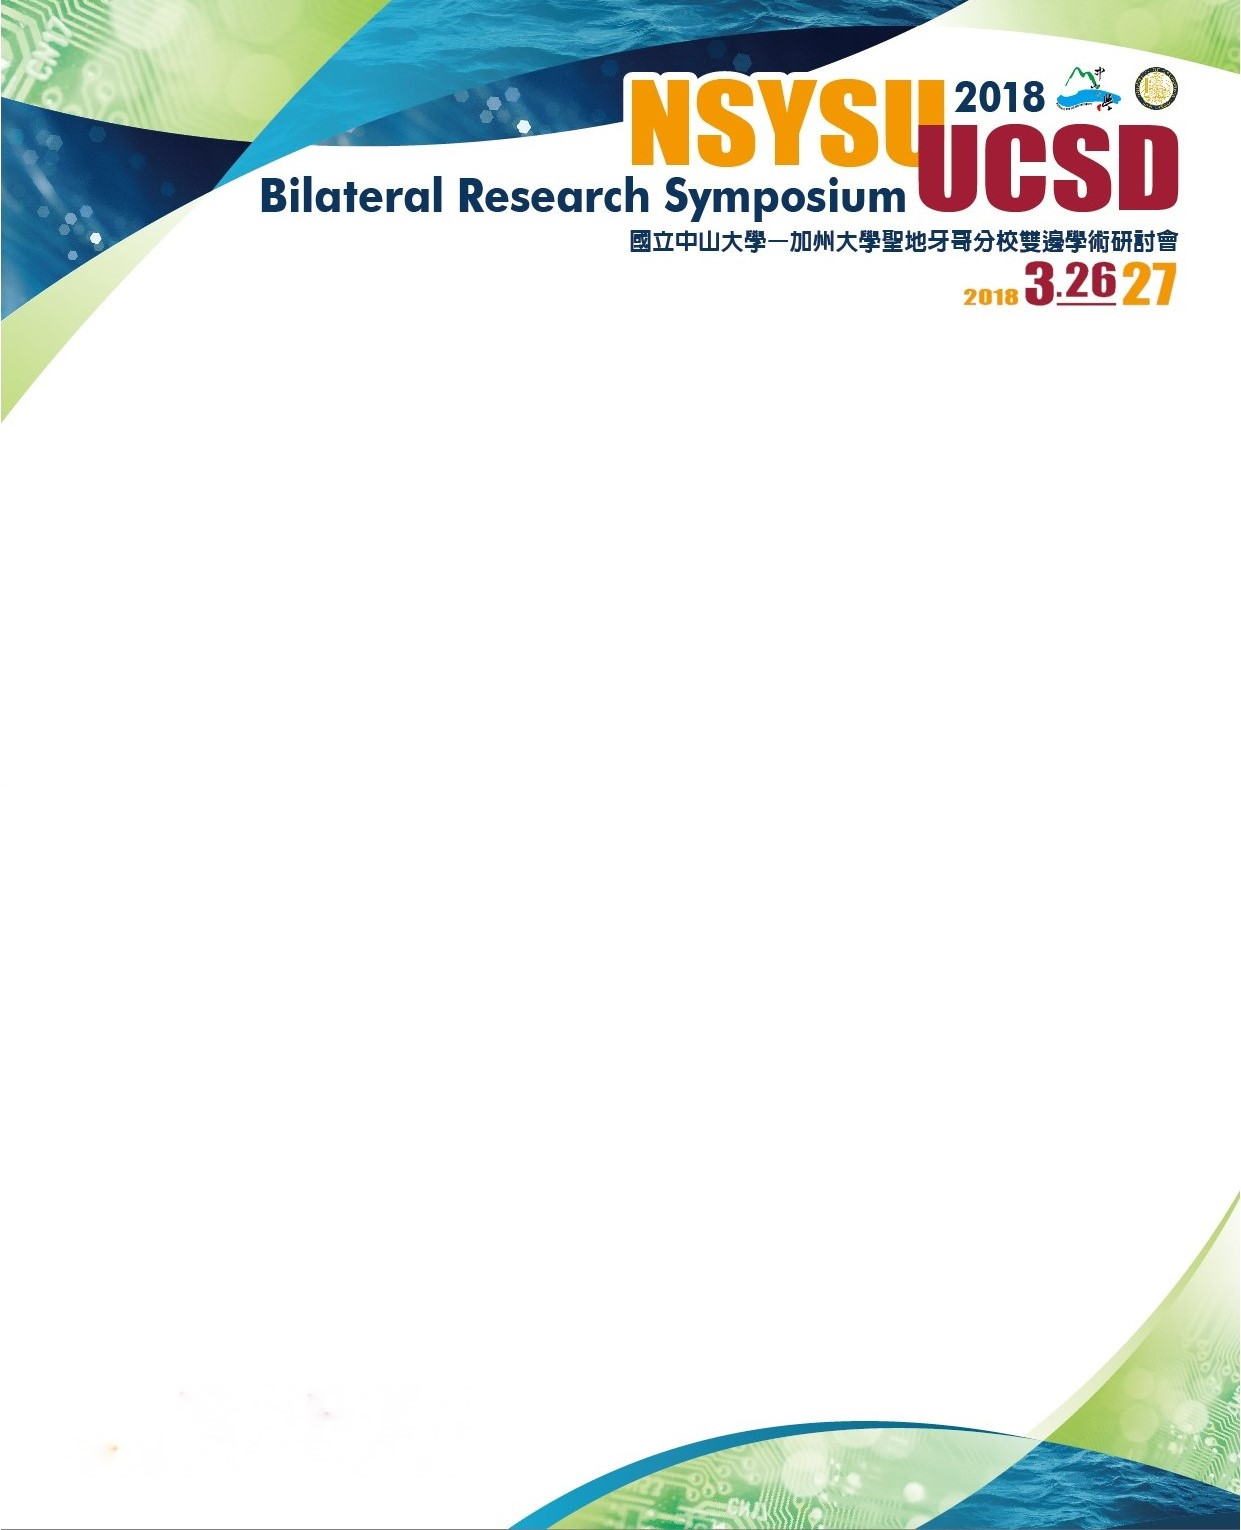
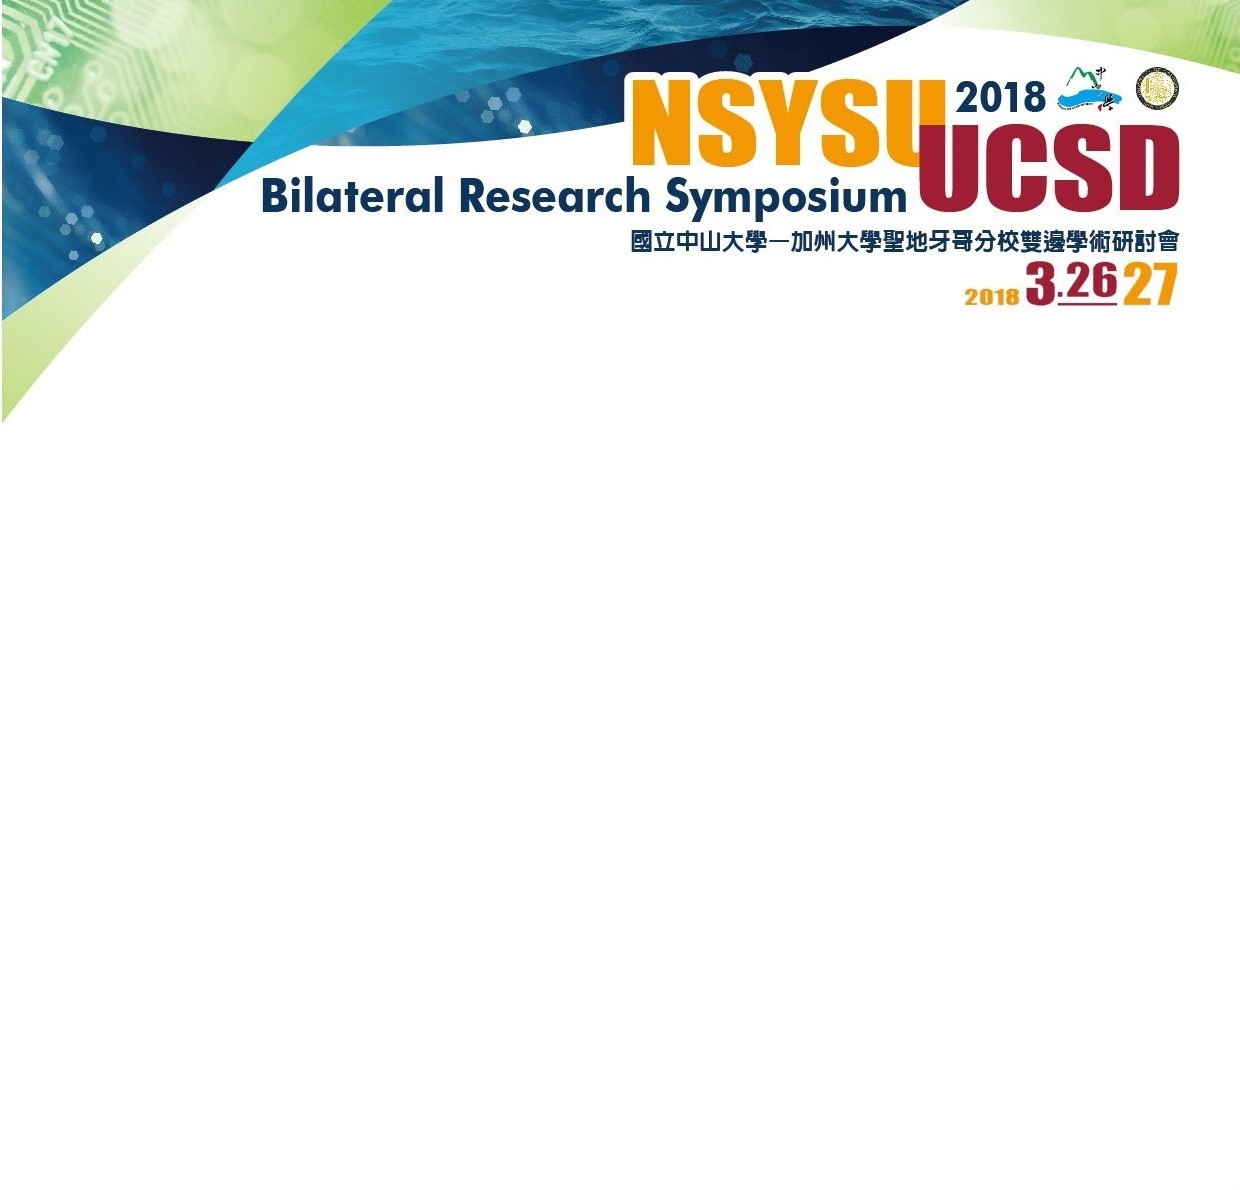
2018/1/7 1.change poster 2.change menu font size

Changed region(s): [[0.0, 0.0, 1.0, 0.3731], [0.0, 0.7773, 1.0, 1.0]]

diff --git a/index.html b/index.html
@@ -91,7 +91,7 @@
 			</div>
 			<div class="footer_css">
 				<img src="footer.png" style="width:100%;"></img>
-				<div style="position:absolute;bottom:40px;right:16px;">Copyright c National Sun Yat-sen University All rights reserved.</div>
+				<div style="position:absolute;bottom:40px;right:16px;">Copyright @ National Sun Yat-sen University All rights reserved.</div>
 				<div style="position:absolute;bottom:24px;right:16px;">Address: No. 70, Lienhai Rd., Kaohsiung 80424 Taiwan, R.O.C.</div>
 				<div style="position:absolute;bottom:8px;right:16px;">Tel: +886-7- 5252000 x 2614</div>
 			</div>

diff --git a/index.css b/index.css
@@ -1,7 +1,7 @@
 body {
 	background-image: url(poster2.jpg);
     background-repeat: no-repeat;
-	background-size:100% 1600px;
+	background-size:100% 1300px;
 	background-position: 0 0; 
 }
 
@@ -117,7 +117,7 @@ body {
 /*Menu font color*/
 .nav_self_css a {
 	color:	#000000;
-	font-size:24px;
+	font-size:20px;
 	font-weight:bold;
 	
 }
